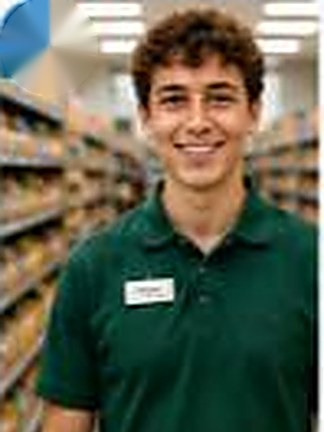
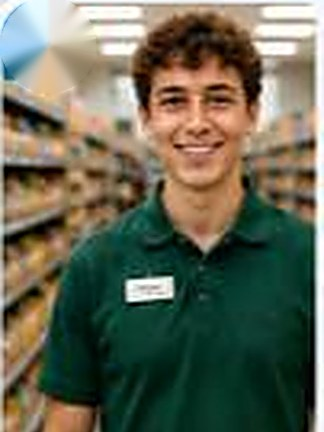
Who's This?: tighter photo crops and the salary answer in words
Photo crops are cut to the detected photo box and then trimmed inward
only, so the white card background that showed along some edges is gone
and no card content can creep in. Each crop is now centred on the face
(Haar cascade, eyes near the upper third) instead of taking the top of
the frame.

The "How much does he/she earn?" answer now reads the figure out in
words — "She earns two thousand eight hundred dollars a month" — with the
numeral kept alongside as a quiet reference. Speech reads the words.

Claude-Session: https://claude.ai/code/session_01RXSHNVxCAaqUmEgXhhQp3G

diff --git a/whos-this/index.html b/whos-this/index.html
@@ -217,6 +217,10 @@
   .kq__q{display:block;font-size:clamp(10.5px,3.1vw,14px);font-weight:600;color:var(--pink-soft);letter-spacing:-.01em}
   .kq__a{display:block;font-size:clamp(12.5px,3.75vw,17px);font-weight:700;letter-spacing:-.02em;line-height:1.24;margin-top:1px}
   .kq__a .hi{color:var(--seal)}
+  .kq__a .fig{
+    font-family:var(--mono);font-weight:500;font-size:.8em;
+    color:var(--pink-faint);white-space:nowrap;
+  }
   .kq.is-active .kq__n{background:var(--seal);border-color:var(--seal);color:var(--paper)}
   .kq.is-active .kq__a{text-decoration:underline;text-decoration-color:hsl(164 72% 40% / .45);text-underline-offset:3px}
 
@@ -460,13 +464,32 @@ const hes   = p => p.g === "f" ? "She's" : "He's";
 const heShe = p => p.g === "f" ? "she" : "he";
 const an    = w => /^[aeiou]/i.test(w) ? "an" : "a";
 const money = n => "$" + n.toLocaleString("en-US");
+
+/* Beginners need the spoken form of the figure, not just the numeral. */
+const ONES = ["","one","two","three","four","five","six","seven","eight","nine","ten",
+  "eleven","twelve","thirteen","fourteen","fifteen","sixteen","seventeen","eighteen","nineteen"];
+const TENS = ["","","twenty","thirty","forty","fifty","sixty","seventy","eighty","ninety"];
+function under100(n){
+  if (n < 20) return ONES[n];
+  return TENS[Math.floor(n/10)] + (n%10 ? "-" + ONES[n%10] : "");
+}
+function under1000(n){
+  const h = Math.floor(n/100), r = n%100;
+  return [h ? ONES[h] + " hundred" : "", r ? under100(r) : ""].filter(Boolean).join(" ");
+}
+function inWords(n){
+  const th = Math.floor(n/1000), r = n%1000;
+  return [th ? under1000(th) + " thousand" : "", r ? under1000(r) : ""].filter(Boolean).join(" ") || "zero";
+}
 const title = s => s.replace(/\b\w/g, c => c.toUpperCase());
 
 const QUESTIONS = [
   {wh:"Who",      q:p => "Who's this?",                          a:p => `That's <span class="hi">${p.name}</span>.`},
   {wh:"What",     q:p => `What does ${heShe(p)} do?`,            a:p => `${hes(p)} ${an(p.job)} <span class="hi">${p.job}</span>.`},
   {wh:"Where",    q:p => `Where's ${heShe(p)} from?`,            a:p => `${hes(p)} from <span class="hi">${p.country}</span>. ${hes(p)} <span class="hi">${p.adj}</span>.`},
-  {wh:"How much", q:p => `How much does ${heShe(p)} earn?`,      a:p => `${He(p)} earns <span class="hi">${money(p.pay)}</span> a month.`},
+  {wh:"How much", q:p => `How much does ${heShe(p)} earn?`,
+   a:p => `${He(p)} earns <span class="hi">${inWords(p.pay)} dollars</span> a month. <span class="fig">${money(p.pay)}</span>`,
+   s:p => `${He(p)} earns ${inWords(p.pay)} dollars a month.`},
   {wh:"How old",  q:p => `How old is ${heShe(p)}?`,              a:p => `${hes(p)} <span class="hi">${p.age}</span> years old.`}
 ];
 
@@ -609,7 +632,7 @@ $("key").addEventListener("click", e => {
   e.stopPropagation();
   const i = +b.dataset.say, p = deck[idx];
   setQ(i);
-  say(plain(QUESTIONS[i].a(p)), b);
+  say(QUESTIONS[i].s ? QUESTIONS[i].s(p) : plain(QUESTIONS[i].a(p)), b);
 });
 
 $("card").addEventListener("click", () => setFlip(!flipped));
